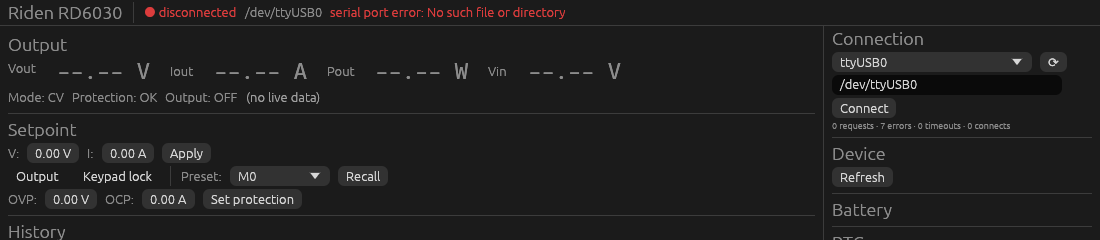
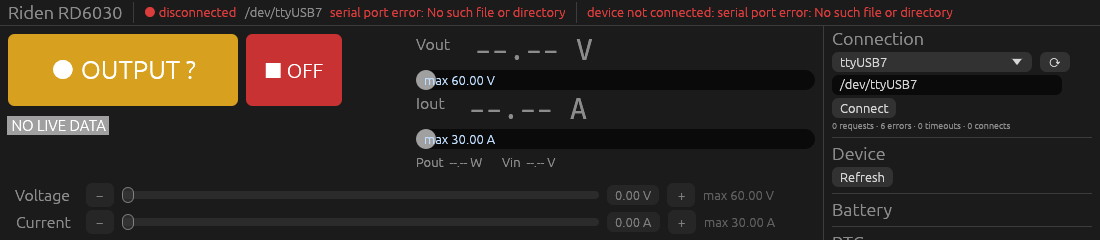
Update README and GUI screenshots for the new control panel
- new screenshots (simulator): control panel in CV/CC operation, OCP
  trip, start-up without a device
- README: GUI features, link to the hardware test results, polling rate
  measured on hardware, register notes confirmed on fw 1.47

diff --git a/README.md b/README.md
@@ -11,19 +11,21 @@ Rust. It talks to the supply over USB (CH340 UART bridge) using **Modbus RTU** a
 - a scriptable **CLI** with `--json` output,
 - a **REST API** with live telemetry over Server-Sent Events and bearer-token auth,
 - an **MCP server**, so LLM clients such as Claude Desktop can operate the supply within your limits,
-- a desktop **GUI** with live plots,
+- a desktop **GUI** with a big colour-coded output switch, setpoint sliders, live bars and plots,
 - a **simulator**, so all of the above can be run and tested without hardware.
+
+Tested against a real RD6030 (firmware 1.47): see the [hardware test results](docs/hil.md#results-first-hardware-run-2026-10-31).
 
 ![GUI showing live telemetry while the load steps through CV and CC operation](docs/gui.png)
 
 <table>
 <tr>
-<td width="50%"><img src="docs/gui-protection.png" alt="GUI after an over-current protection trip"><br><sub>Over-current protection trip: the output switches off and the status turns red.</sub></td>
+<td width="50%"><img src="docs/gui-protection.png" alt="GUI after an over-current protection trip"><br><sub>Over-current protection trip: the output switches off and the badge turns red.</sub></td>
 <td width="50%"><img src="docs/cli.png" alt="CLI session"><br><sub>CLI: identity, setpoints, live CV/CC telemetry, limit enforcement.</sub></td>
 </tr>
 <tr>
 <td width="50%"><img src="docs/rest.png" alt="REST API session"><br><sub>REST API: token auth, 422 on limit violations, health counters, SSE stream.</sub></td>
-<td width="50%"><img src="docs/gui-disconnected.png" alt="GUI without a device"><br><sub>No device? The GUI starts anyway, shows why, and reconnects in the background.</sub></td>
+<td width="50%"><img src="docs/gui-disconnected.png" alt="GUI without a device"><br><sub>No device? The GUI starts anyway, shows why, and reconnects in the background. Without live data the output button only switches off.</sub></td>
 </tr>
 </table>
 
@@ -280,9 +282,14 @@ not exposed. Errors come back as readable tool errors, so the model can correct 
 
 - Starts without a device. A port picker and a link indicator show *connected*, *degraded* or
   *disconnected* along with the last error.
-- Large live readouts that show `--.--` when the data is stale, CV/CC mode, and protection trips in red.
-- Editors for the setpoint and OVP/OCP, with the device's current values next to them, re-read every
-  2 s so front-panel changes show up.
+- A big **output button**: green when on, grey when off, amber when there is no live data (a click
+  then only switches off), plus an always-available red **OFF** button.
+- Large live readouts with **bars** against the software limits: green in CV, orange when the current
+  limit is active (CC), red on an OVP/OCP trip, `--.--` when the data is stale.
+- **Setpoint sliders** (logarithmic for current, so 0–30 A and mA steps fit on one slider) with −/+
+  fine steps. They write when released, never while dragging, and show the configured limit.
+- An *Advanced* section with exact editors for the setpoint and OVP/OCP, with the device's current
+  values next to them, re-read every 2 s so front-panel changes show up.
 - Preset recall, keypad lock, RTC sync, device and battery info.
 - V / I / P plots over the last 120 s on a shared time axis.
 
@@ -350,8 +357,8 @@ Debugging aids:
 ## Register reference
 
 32-bit values span two registers, high word first (big-endian). Entries marked † come from the
-community register map (Baldanos/rd6006, riden-dongle) and are queued for hardware verification in
-[`docs/hil.md`](docs/hil.md).
+community register map (Baldanos/rd6006, riden-dongle) and are still unverified on hardware; everything
+else was confirmed on an RD6030 with firmware 1.47 (see [`docs/hil.md`](docs/hil.md)).
 
 | Address | Register | Scale | Access |
 |---------|----------|-------|--------|
@@ -363,17 +370,17 @@ community register map (Baldanos/rd6006, riden-dongle) and are queued for hardwa
 | 10 / 11 | Vout / Iout | 10 mV / 10 mA | R |
 | 12–13 | Pout | u32, 10 mW | R |
 | 14 | Vin | 10 mV | R |
-| 15 | Keypad lock | 0/1 | R/W |
+| 15 | Keypad lock (reads 1 while remote-controlled; fw 1.47 ignores writes) | 0/1 | R/W |
 | 16 | Protection (0 OK, 1 OVP, 2 OCP) | — | R |
 | 17 | CV/CC (0 CV, 1 CC) | — | R |
 | 18 | Output enable | 0/1 | R/W |
-| 19 | Preset recall (M0–M9) | 0–9 | R/W |
+| 19 | Preset recall (M1–M9 load V/I and activate that slot's OVP/OCP; M0 loads nothing) | 0–9 | R/W |
 | 32–41 | Battery mode, Vbat, ext. temperature, capacity (mAh), energy (mWh †) | mixed | R |
 | 48–53 | RTC (year, month, day, hour, minute, second) | — | R/W |
 | 54 | Calibration commit `0x1501` † (unverified) | — | W |
 | 55–62 | Calibration words (V/I out/back zero/scale) † | raw | R/W |
 | 66–72 | Options: take-ok, take-out, boot power, buzzer, logo, language, backlight † | raw | R/W |
-| 80 + 4·n | Preset Mn: V, I, OVP, OCP (M0 = active OVP/OCP) † | 10 mV / 10 mA | R/W |
+| 80 + 4·n | Preset Mn: V, I, OVP, OCP. M0 = power-on setpoint; writing M0 OVP/OCP sets the active thresholds | 10 mV / 10 mA | R/W |
 | 256 | Bootloader trigger: **never written** by this software | — | — |
 
 ## Safety notes
